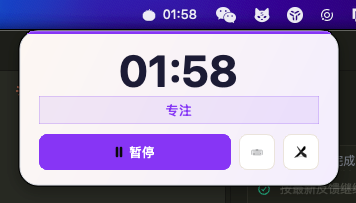
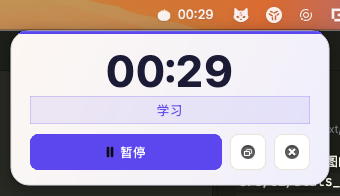
feat(stats & docs): 拆分统计面板为多时间维度并新增模板标签页
重构统计视图核心逻辑，将原单一年度统计拆分为日/周/月/年四个维度，更新热力图组件支持任意时间范围渲染
更新README界面截图表格，新增模板标签页条目并替换旧统计面板截图
新增对应新界面的截图资源，更新GitHub Pages部署脚本与主页静态资源路径
修复主页响应式布局样式，优化移动端显示效果

diff --git a/home_page/index.html b/home_page/index.html
@@ -9,9 +9,9 @@
     <meta property="og:title" content="番茄专注 · TomatoClock" />
     <meta property="og:description" content="基于 PyQt6 的跨平台桌面专注系统：番茄计时、统计（日历/年度）、设置与状态栏/托盘倒计时，支持 Windows / macOS / Linux（以 Releases 构建为准）。" />
     <meta property="og:type" content="website" />
-    <meta property="og:image" content="https://raw.githubusercontent.com/SublimeCT/tomato-clock-pyqt6/main/src/assets/app-icon.png" />
-    <link rel="icon" href="https://raw.githubusercontent.com/SublimeCT/tomato-clock-pyqt6/main/src/assets/app-icon.png" />
-    <link rel="apple-touch-icon" href="https://raw.githubusercontent.com/SublimeCT/tomato-clock-pyqt6/main/src/assets/app-icon.png" />
+    <meta property="og:image" content="/tomato-clock-pyqt6/assets/app-icon.png" />
+    <link rel="icon" href="/tomato-clock-pyqt6/assets/app-icon.png" />
+    <link rel="apple-touch-icon" href="/tomato-clock-pyqt6/assets/app-icon.png" />
     <link rel="preconnect" href="https://fonts.googleapis.com" />
     <link rel="preconnect" href="https://fonts.gstatic.com" crossorigin />
     <link href="https://fonts.googleapis.com/css2?family=Inter:wght@400;500;600;700;800;900&display=swap" rel="stylesheet" />
@@ -39,7 +39,7 @@
       .brand span{display:block;font-size:12px;color:var(--mut)}
       .actions{display:flex;align-items:center;gap:12px;flex-wrap:wrap;justify-content:flex-end}
       .i{width:18px;height:18px;flex:0 0 auto}.i.stroke{fill:none;stroke:currentColor;stroke-width:1.85;stroke-linecap:round;stroke-linejoin:round}.i.fill{fill:currentColor}
-      .btn{display:inline-flex;align-items:center;gap:10px;min-height:48px;padding:12px 16px;border-radius:16px;border:1px solid rgba(255,255,255,.14);background:rgba(255,255,255,.06);font-weight:800;letter-spacing:.1px;transition:transform 220ms var(--ease),background 220ms var(--ease),border-color 220ms var(--ease),filter 220ms var(--ease)}
+      .btn{display:inline-flex;align-items:center;justify-content:center;gap:10px;min-height:48px;padding:12px 16px;border-radius:16px;border:1px solid rgba(255,255,255,.14);background:rgba(255,255,255,.06);font-weight:800;letter-spacing:.1px;white-space:nowrap;transition:transform 220ms var(--ease),background 220ms var(--ease),border-color 220ms var(--ease),filter 220ms var(--ease)}
       .btn:hover{transform:translateY(-1px);background:rgba(255,255,255,.10);border-color:rgba(255,255,255,.22);filter:saturate(1.1)}
       .btn:active{transform:translateY(0) scale(.985)}
       .btn.primary{background:linear-gradient(180deg,rgba(59,130,246,.34),rgba(59,130,246,.12));border-color:rgba(59,130,246,.44)}
@@ -94,6 +94,7 @@
       .download h2{margin:0;font-size:20px}.download p{margin-top:6px;color:var(--mut);max-width:76ch}
       footer{padding:28px 0 34px;border-top:1px solid rgba(255,255,255,.10);color:var(--mut);font-size:13px}
       .foot{display:flex;align-items:center;justify-content:space-between;gap:12px;flex-wrap:wrap}
+      @media (max-width:640px){.download .ctas,.foot .actions{width:100%}.download .ctas .btn,.foot .actions .btn{flex:1 1 100%;width:100%}}
       @media (prefers-reduced-motion:reduce){html{scroll-behavior:auto}.b1,.b2,.b3{animation:none}.btn,.card,.shotRow{transition:none}}
     </style>
   </head>
@@ -104,7 +105,7 @@
       <div class="container">
         <div class="nav" aria-label="顶部导航">
           <a class="brand" href="./" aria-label="番茄专注 首页">
-            <img src="https://raw.githubusercontent.com/SublimeCT/tomato-clock-pyqt6/main/src/assets/app-icon.png" alt="番茄专注 应用图标" width="44" height="44" />
+            <img src="/tomato-clock-pyqt6/assets/app-icon.png" alt="番茄专注 应用图标" width="44" height="44" />
             <div><strong>番茄专注</strong><span>TomatoClock · PyQt6 · 桌面专注系统</span></div>
           </a>
           <div class="actions">
@@ -170,26 +171,38 @@
 
       <section>
         <div class="container">
-          <div class="secHead"><h2>关键界面（用于理解，不占主角）</h2><p>每张截图只限制宽度、保持原始宽高比自适应高度；不提供点击放大；统一结构：左图右文，保持样式一致。</p></div>
+          <div class="secHead"><h2>关键界面（用于理解，不占主角）</h2><p>补齐专注、统计（日 / 周 / 月 / 年）、模板、设置与托盘等关键界面；每张截图都保持左图右文，只解释这张图在专注流程里承担什么角色。</p></div>
           <div class="shotList">
             <div class="shotRow" style="--acc:rgba(59,130,246,.70)">
-              <img class="shotImg" src="https://raw.githubusercontent.com/SublimeCT/tomato-clock-pyqt6/main/docs/focus_tab.png" alt="专注页面截图" loading="lazy" />
+              <img class="shotImg" src="/tomato-clock-pyqt6/screens/focus_tab.png" alt="专注页面截图" loading="lazy" />
               <div class="shotText"><div class="kicker"><span class="kdot"></span><span>Focus</span></div><h3>专注</h3><p>把“下一步做什么”放在最醒目处：计时、状态、切换动作形成一条线，不让你在界面里找路径。</p><div class="mini"><span><svg class="i stroke" viewBox="0 0 24 24" aria-hidden="true"><path d="M8 12h8" /><path d="M12 8v8" /></svg><span>开始动作更明确，减少犹豫。</span></span><span><svg class="i stroke" viewBox="0 0 24 24" aria-hidden="true"><path d="M12 8v4l2.5 2.5" /></svg><span>状态信息集中呈现，减少扫视成本。</span></span></div></div>
             </div>
             <div class="shotRow" style="--acc:rgba(168,85,247,.70)">
-              <img class="shotImg" src="https://raw.githubusercontent.com/SublimeCT/tomato-clock-pyqt6/main/docs/statistics_tab.png" alt="统计页面截图" loading="lazy" />
+              <img class="shotImg" src="/tomato-clock-pyqt6/screens/statistics_tab_day.png" alt="统计页面截图" loading="lazy" />
               <div class="shotText"><div class="kicker"><span class="kdot"></span><span>Stats</span></div><h3>统计</h3><p>用一眼能读懂的结构呈现趋势：你不是在“看图”，而是在确认自己是否在正确的节奏里。</p><div class="mini"><span><svg class="i stroke" viewBox="0 0 24 24" aria-hidden="true"><path d="M4 19V5" /><path d="M4 19h16" /></svg><span>重点优先：先趋势，后细节。</span></span><span><svg class="i stroke" viewBox="0 0 24 24" aria-hidden="true"><path d="M7 7h10" /><path d="M7 12h10" /><path d="M7 17h10" /></svg><span>信息分组清晰，减少视觉噪音。</span></span></div></div>
             </div>
+            <div class="shotRow" style="--acc:rgba(236,72,153,.70)">
+              <img class="shotImg" src="/tomato-clock-pyqt6/screens/statistics_tab_week.png" alt="周统计页面截图" loading="lazy" />
+              <div class="shotText"><div class="kicker"><span class="kdot"></span><span>Week</span></div><h3>周统计</h3><p>周视角适合校准最近一段时间的工作节奏：既能看出连续性，也能及时发现哪几天开始偏离计划。</p><div class="mini"><span><svg class="i stroke" viewBox="0 0 24 24" aria-hidden="true"><path d="M4 7h16" /><path d="M7 3v4" /><path d="M17 3v4" /></svg><span>更适合做短周期复盘与节奏校正。</span></span><span><svg class="i stroke" viewBox="0 0 24 24" aria-hidden="true"><path d="M5 12h14" /><path d="M5 17h9" /></svg><span>把连续投入和波动都放到同一页里。</span></span></div></div>
+            </div>
+            <div class="shotRow" style="--acc:rgba(250,204,21,.70)">
+              <img class="shotImg" src="/tomato-clock-pyqt6/screens/statistics_tab_month.png" alt="月统计页面截图" loading="lazy" />
+              <div class="shotText"><div class="kicker"><span class="kdot"></span><span>Month</span></div><h3>月统计</h3><p>月度页面更适合判断策略是否有效：不是看单日发挥，而是看一个阶段内的累计投入有没有形成稳定结果。</p><div class="mini"><span><svg class="i stroke" viewBox="0 0 24 24" aria-hidden="true"><path d="M8 3v3" /><path d="M16 3v3" /><path d="M4 8h16" /></svg><span>适合看阶段性目标是否在按预期推进。</span></span><span><svg class="i stroke" viewBox="0 0 24 24" aria-hidden="true"><path d="M6 18l4-5 3 2 5-7" /></svg><span>把零散专注记录整合成可判断的趋势。</span></span></div></div>
+            </div>
             <div class="shotRow" style="--acc:rgba(34,197,94,.70)">
-              <img class="shotImg" src="https://raw.githubusercontent.com/SublimeCT/tomato-clock-pyqt6/main/docs/statistics_tab_year.png" alt="年度统计页面截图" loading="lazy" />
+              <img class="shotImg" src="/tomato-clock-pyqt6/screens/statistics_tab_year.png" alt="年度统计页面截图" loading="lazy" />
               <div class="shotText"><div class="kicker"><span class="kdot"></span><span>Year</span></div><h3>年度</h3><p>把“我到底有没有坚持”变成可回答的问题：年度视角更适合看阶段性成果与季节性波动。</p><div class="mini"><span><svg class="i stroke" viewBox="0 0 24 24" aria-hidden="true"><path d="M3 12h18" /><path d="M12 3v18" /></svg><span>更长周期更接近真实节奏。</span></span><span><svg class="i stroke" viewBox="0 0 24 24" aria-hidden="true"><path d="M12 2v2" /><path d="M12 20v2" /></svg><span>让复盘从“感觉”变成“依据”。</span></span></div></div>
             </div>
+            <div class="shotRow" style="--acc:rgba(99,102,241,.70)">
+              <img class="shotImg" src="/tomato-clock-pyqt6/screens/template_tab.png" alt="模板页面截图" loading="lazy" />
+              <div class="shotText"><div class="kicker"><span class="kdot"></span><span>Template</span></div><h3>模板</h3><p>把常用专注配置提前整理成模板，减少每次开始前的重复设定；尤其适合不同任务类型之间快速切换。</p><div class="mini"><span><svg class="i stroke" viewBox="0 0 24 24" aria-hidden="true"><path d="M6 6h12v12H6z" /><path d="M9 9h6" /></svg><span>常用方案可复用，避免反复配置。</span></span><span><svg class="i stroke" viewBox="0 0 24 24" aria-hidden="true"><path d="M8 12h8" /><path d="M12 8v8" /></svg><span>让切换任务类型时仍然保持低摩擦。</span></span></div></div>
+            </div>
             <div class="shotRow" style="--acc:rgba(234,88,12,.70)">
-              <img class="shotImg" src="https://raw.githubusercontent.com/SublimeCT/tomato-clock-pyqt6/main/docs/settings_tab.png" alt="设置页面截图" loading="lazy" />
+              <img class="shotImg" src="/tomato-clock-pyqt6/screens/settings_tab.png" alt="设置页面截图" loading="lazy" />
               <div class="shotText"><div class="kicker"><span class="kdot"></span><span>Settings</span></div><h3>设置</h3><p>设置不是“配置中心”，而是为了让你更少维护：把会影响体验的选项放在合理的位置，避免打断主流程。</p><div class="mini"><span><svg class="i stroke" viewBox="0 0 24 24" aria-hidden="true"><path d="M4 12h16" /><path d="M12 4v16" /></svg><span>重要项优先：少而清晰。</span></span><span><svg class="i stroke" viewBox="0 0 24 24" aria-hidden="true"><path d="M9 11h6" /><path d="M10 15h4" /></svg><span>一致的控件节奏与反馈。</span></span></div></div>
             </div>
             <div class="shotRow" style="--acc:rgba(14,165,233,.70)">
-              <img class="shotImg" src="https://raw.githubusercontent.com/SublimeCT/tomato-clock-pyqt6/main/docs/tray_panel.png" alt="状态栏/托盘倒计时截图" loading="lazy" />
+              <img class="shotImg" src="/tomato-clock-pyqt6/screens/tray_panel.png" alt="状态栏/托盘倒计时截图" loading="lazy" />
               <div class="shotText"><div class="kicker"><span class="kdot"></span><span>Tray</span></div><h3>状态栏 / 托盘</h3><p>把进度放在“视线边缘”：你专注在工作时，不需要回到应用里确认倒计时。</p><div class="mini"><span><svg class="i stroke" viewBox="0 0 24 24" aria-hidden="true"><path d="M6 12h12" /><path d="M12 6v12" /></svg><span>更少切换，更少中断。</span></span><span><svg class="i stroke" viewBox="0 0 24 24" aria-hidden="true"><path d="M12 8v4l2.5 2.5" /></svg><span>进度可见但不侵占注意力。</span></span></div></div>
             </div>
           </div>
@@ -201,7 +214,7 @@
           <div class="download" aria-label="下载区块">
             <div><h2>下载与安装</h2><p>下载固定使用 GitHub Releases：选择最新版本，根据 Windows / macOS / Linux 选择对应构建产物（以 Releases 列表为准）。</p></div>
             <div class="ctas">
-              <a class="btn cta" href="https://github.com/SublimeCT/tomato-clock-pyqt6/releases" target="_blank" rel="noreferrer"><svg class="i stroke" viewBox="0 0 24 24" aria-hidden="true"><path d="M12 3v10" /><path d="M8 10l4 4 4-4" /><path d="M4 21h16" /></svg>打开 Releases</a>
+              <a class="btn cta" href="https://github.com/SublimeCT/tomato-clock-pyqt6/releases" target="_blank" rel="noreferrer"><svg class="i stroke" viewBox="0 0 24 24" aria-hidden="true"><path d="M12 3v10" /><path d="M8 10l4 4 4-4" /><path d="M4 21h16" /></svg>下载</a>
               <a class="btn primary" href="https://github.com/SublimeCT/tomato-clock-pyqt6" target="_blank" rel="noreferrer"><svg class="i fill" viewBox="0 0 24 24" aria-hidden="true"><path d="M12 .5a11.5 11.5 0 0 0-3.64 22.4c.58.1.8-.25.8-.56v-2c-3.26.72-3.95-1.4-3.95-1.4-.54-1.36-1.32-1.72-1.32-1.72-1.08-.73.08-.72.08-.72 1.2.08 1.83 1.24 1.83 1.24 1.06 1.82 2.78 1.3 3.46 1 .1-.77.42-1.3.76-1.6-2.6-.3-5.33-1.3-5.33-5.82 0-1.29.46-2.34 1.22-3.17-.12-.3-.53-1.52.12-3.16 0 0 1-.32 3.3 1.21a11.4 11.4 0 0 1 6 0C17.74 4.4 18.74 4.72 18.74 4.72c.65 1.64.24 2.86.12 3.16.76.83 1.22 1.88 1.22 3.17 0 4.53-2.74 5.51-5.35 5.8.44.38.82 1.13.82 2.28v3.37c0 .31.21.67.8.56A11.5 11.5 0 0 0 12 .5Z"/></svg>查看仓库</a>
             </div>
           </div>

diff --git a/src/ui/stats_common.py b/src/ui/stats_common.py
@@ -3,7 +3,7 @@ from __future__ import annotations
 from dataclasses import dataclass
 from datetime import date, timedelta
 
-from PyQt6.QtCore import QPoint, Qt, QRect, pyqtSignal
+from PyQt6.QtCore import QPoint, QPointF, Qt, QRect, QRectF, pyqtSignal
 from PyQt6.QtGui import QColor, QPainter, QPen
 from PyQt6.QtWidgets import QHBoxLayout, QLabel, QPushButton, QSizePolicy, QToolTip, QVBoxLayout, QWidget
 
@@ -139,13 +139,15 @@ class ColumnBarChartWidget(QWidget):
 class HeatmapWidget(QWidget):
     def __init__(self, parent=None):
         super().__init__(parent)
-        self._year = date.today().year
+        self._end_day = date.today()
+        self._start_day = self._end_day - timedelta(days=365)
         self._counts: dict[str, int] = {}
         self.setMouseTracking(True)
         self.setMinimumHeight(108)
 
-    def set_data(self, year: int, counts: dict[str, int]) -> None:
-        self._year = int(year)
+    def set_data(self, start_day: date, end_day: date, counts: dict[str, int]) -> None:
+        self._start_day = min(start_day, end_day)
+        self._end_day = max(start_day, end_day)
         self._counts = dict(counts)
         self.update()
 
@@ -164,57 +166,63 @@ class HeatmapWidget(QWidget):
     def paintEvent(self, event) -> None:
         painter = QPainter(self)
         painter.setRenderHint(QPainter.RenderHint.Antialiasing, True)
-        start = date(self._year, 1, 1)
-        end = date(self._year, 12, 31)
-        start = start - timedelta(days=start.weekday())
-        cell, gap = self._grid_metrics()
+        display_start, columns = self._display_range()
+        if columns <= 0:
+            return
+        cell, gap = self._grid_metrics(columns)
         rows = 7
-        total_w = 53 * cell + 52 * gap
         total_h = rows * cell + (rows - 1) * gap
-        origin_x = max(0, int((self.width() - total_w) / 2))
-        origin_y = max(0, int((self.height() - total_h) / 2))
+        origin_y = max(0.0, (self.height() - total_h) / 2.0)
         max_count = max(1, max(self._counts.values(), default=0))
-        day = start
-        while day <= end:
+        day = display_start
+        while day <= self._end_day:
+            if day < self._start_day:
+                day += timedelta(days=1)
+                continue
             key = day.isoformat()
             value = int(self._counts.get(key, 0))
-            week = int((day - start).days / 7)
+            week = int((day - display_start).days / 7)
             row = day.weekday()
-            x = origin_x + week * (cell + gap)
+            x = week * (cell + gap)
             y = origin_y + row * (cell + gap)
             level = 0 if value <= 0 else min(4, max(1, round((value / max_count) * 4)))
             colors = ["#ECE6DE", rgba(SUCCESS, 0.24), rgba(SUCCESS, 0.42), rgba(SUCCESS, 0.62), SUCCESS]
             painter.setPen(Qt.PenStyle.NoPen)
             painter.setBrush(QColor(colors[level]))
-            painter.drawRoundedRect(QRect(x, y, cell, cell), 2, 2)
+            painter.drawRoundedRect(QRectF(x, y, cell, cell), 2, 2)
             day += timedelta(days=1)
 
     def _hit_test(self, pos: QPoint) -> tuple[str, int] | None:
-        start = date(self._year, 1, 1)
-        end = date(self._year, 12, 31)
-        start = start - timedelta(days=start.weekday())
-        cell, gap = self._grid_metrics()
+        display_start, columns = self._display_range()
+        if columns <= 0:
+            return None
+        cell, gap = self._grid_metrics(columns)
         rows = 7
-        total_w = 53 * cell + 52 * gap
         total_h = rows * cell + (rows - 1) * gap
-        origin_x = max(0, int((self.width() - total_w) / 2))
-        origin_y = max(0, int((self.height() - total_h) / 2))
-        day = start
-        while day <= end:
-            week = int((day - start).days / 7)
+        origin_y = max(0.0, (self.height() - total_h) / 2.0)
+        point = QPointF(pos)
+        day = display_start
+        while day <= self._end_day:
+            if day < self._start_day:
+                day += timedelta(days=1)
+                continue
+            week = int((day - display_start).days / 7)
             row = day.weekday()
-            rect = QRect(origin_x + week * (cell + gap), origin_y + row * (cell + gap), cell, cell)
-            if rect.contains(pos):
+            rect = QRectF(week * (cell + gap), origin_y + row * (cell + gap), cell, cell)
+            if rect.contains(point):
                 key = day.isoformat()
                 return key, int(self._counts.get(key, 0))
             day += timedelta(days=1)
         return None
 
-    def _grid_metrics(self) -> tuple[int, int]:
-        columns = 53
-        gap = 1
-        available = max(240, self.width() - ((columns - 1) * gap))
-        cell = max(4, min(8, int(available / columns)))
+    def _display_range(self) -> tuple[date, int]:
+        display_start = self._start_day - timedelta(days=self._start_day.weekday())
+        columns = ((self._end_day - display_start).days // 7) + 1
+        return display_start, max(1, columns)
+
+    def _grid_metrics(self, columns: int) -> tuple[float, float]:
+        gap = 1.0 if self.width() > columns * 2 else 0.0
+        cell = (max(1.0, float(self.width())) - ((columns - 1) * gap)) / max(1, columns)
         return cell, gap
 
 

diff --git a/src/ui/stats_page.py b/src/ui/stats_page.py
@@ -1,6 +1,7 @@
 from __future__ import annotations
 
 from datetime import date, datetime, timedelta
+from calendar import monthrange
 
 from PyQt6.QtCore import Qt
 from PyQt6.QtWidgets import QAbstractScrollArea, QHBoxLayout, QScrollArea, QStackedWidget, QVBoxLayout, QWidget
@@ -221,11 +222,11 @@ class StatsPage(QWidget):
     def _refresh_year(self) -> None:
         counts = self._sessions.counts_by_day()
         filtered: dict[str, int] = {}
-        prefix = f"{self._selected_year:04d}-"
+        start_day, end_day = self._year_period()
         for k, v in counts.items():
-            if k.startswith(prefix):
+            if start_day.isoformat() <= k <= end_day.isoformat():
                 filtered[k] = int(v)
-        self.year_view.set_data(self._selected_year, filtered, self._selected_year < self._today.year)
+        self.year_view.set_data(start_day, end_day, filtered, end_day < self._today)
 
     def _go_prev_day(self) -> None:
         self._selected_date -= timedelta(days=1)
@@ -286,3 +287,14 @@ class StatsPage(QWidget):
             if focus_type and focus_type not in colors:
                 colors[focus_type] = "#4F46E5"
         return colors
+
+    def _year_period(self) -> tuple[date, date]:
+        end_day = self._same_month_day(self._selected_year, self._today)
+        if end_day > self._today:
+            end_day = self._today
+        start_day = self._same_month_day(end_day.year - 1, end_day)
+        return start_day, end_day
+
+    def _same_month_day(self, target_year: int, source_day: date) -> date:
+        last_day = monthrange(target_year, source_day.month)[1]
+        return date(target_year, source_day.month, min(source_day.day, last_day))

diff --git a/src/ui/stats_views.py b/src/ui/stats_views.py
@@ -176,10 +176,10 @@ class YearStatsPanel(_NavPanel):
         self.body_layout.addWidget(self.heatmap, 0)
         self.body_layout.addWidget(legend_row, 0)
 
-    def set_data(self, year: int, counts: dict[str, int], can_go_next: bool) -> None:
-        self.range_label.setText(f"{year}年")
+    def set_data(self, start_day: date, end_day: date, counts: dict[str, int], can_go_next: bool) -> None:
+        self.range_label.setText(f"{start_day.year}年{start_day.month}月{start_day.day}日 - {end_day.year}年{end_day.month}月{end_day.day}日")
         self.next_btn.setEnabled(bool(can_go_next))
-        self.heatmap.set_data(year, counts)
+        self.heatmap.set_data(start_day, end_day, counts)
 
 
 @dataclass(frozen=True)

diff --git a/README.md b/README.md
@@ -19,8 +19,11 @@
 | 页面 | 截图 | 说明 |
 |--- |--- |--- |
 | 专注 | `MacOS`: ![](./docs/focus_tab.png) `Ubuntu`: ![](./docs/focus_tab_ubuntu.png) `Windows`: ![](./docs/focus_tab_windows.png) | |
-| 统计 | ![](./docs/statistics_tab.png) | |
+| 统计(日) | ![](./docs/statistics_tab_day.png) | |
+| 统计(周) | ![](./docs/statistics_tab_week.png) | |
+| 统计(月) | ![](./docs/statistics_tab_month.png) | |
 | 统计(年) | ![](./docs/statistics_tab_year.png) | |
+| 模板 | ![](./docs/template_tab.png) | |
 | 设置 | ![](./docs/settings_tab.png) | |
 | 管理专注类型 | ![](./docs/focus_type_management.png) | |
 | 状态栏(MacOS 倒计时) | ![](./docs/tray_panel.png) | |